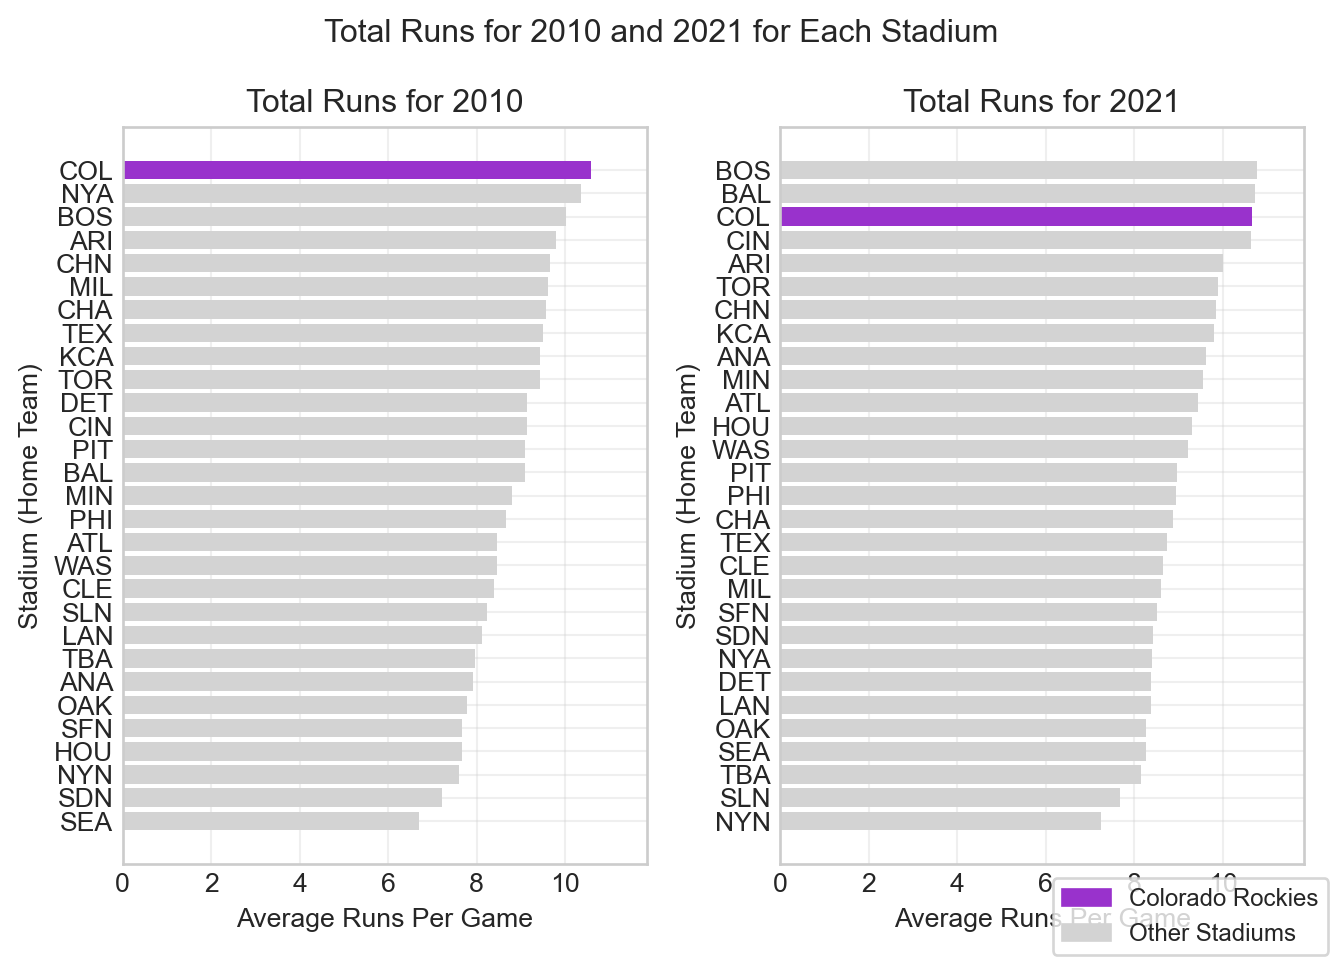
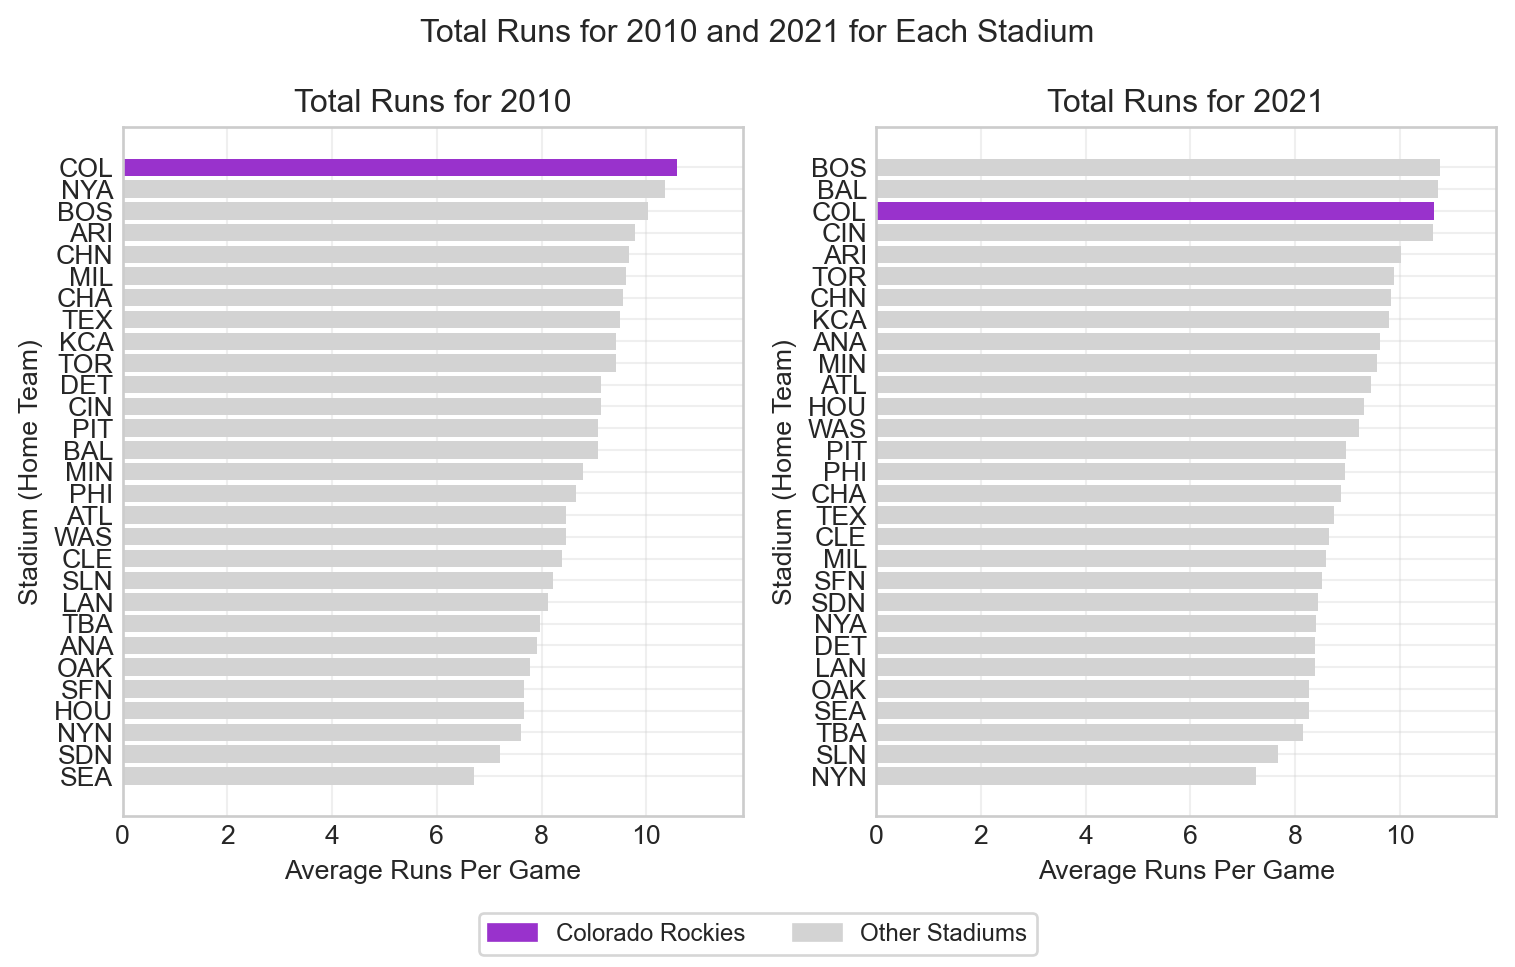
adjust legend position

diff --git a/index.html b/index.html
@@ -288,7 +288,7 @@ First few rows of 2010 data:
 </div>
 <div class="callout-body-container callout-body">
 <p><strong>Question 1: Data Aggregation Strategy</strong> - How many games are in the dataset? Why do we aggregate individual games into stadium averages before we start the visualization process?</p>
-<div id="21bc28ea" class="cell" data-message="false" data-execution_count="3">
+<div id="8d675c0f" class="cell" data-message="false" data-execution_count="3">
 <div class="code-copy-outer-scaffold"><div class="sourceCode cell-code" id="cb5"><pre class="sourceCode python code-with-copy"><code class="sourceCode python"><span id="cb5-1"><a href="#cb5-1" aria-hidden="true" tabindex="-1"></a><span class="bu">print</span>(<span class="st">"2010 data shape:"</span>, df2010.shape)</span>
 <span id="cb5-2"><a href="#cb5-2" aria-hidden="true" tabindex="-1"></a><span class="bu">print</span>(<span class="st">"2021 data shape:"</span>, df2021.shape)</span>
 <span id="cb5-3"><a href="#cb5-3" aria-hidden="true" tabindex="-1"></a><span class="bu">print</span>(<span class="st">"</span><span class="ch">\n</span><span class="st">2010 data columns:"</span>, df2010.columns.tolist())</span>
@@ -310,7 +310,7 @@ First few rows of 2010 data:
 </div>
 </div>
 <p>There are total of 4859 games from 2010 and 2021 seasons. 2430 games in 2010 and 2429 games in 2021.</p>
-<div id="4105aca1" class="cell" data-message="false" data-execution_count="4">
+<div id="0e6ad3db" class="cell" data-message="false" data-execution_count="4">
 <div class="code-copy-outer-scaffold"><div class="sourceCode cell-code" id="cb7"><pre class="sourceCode python code-with-copy"><code class="sourceCode python"><span id="cb7-1"><a href="#cb7-1" aria-hidden="true" tabindex="-1"></a>home_run_2010 <span class="op">=</span> df2010.groupby(<span class="st">'home'</span>).size().sort_values(ascending<span class="op">=</span><span class="va">False</span>)</span>
 <span id="cb7-2"><a href="#cb7-2" aria-hidden="true" tabindex="-1"></a><span class="bu">print</span>(home_run_2010.head(<span class="dv">3</span>))</span>
 <span id="cb7-3"><a href="#cb7-3" aria-hidden="true" tabindex="-1"></a></span>
@@ -495,7 +495,7 @@ Colorado is 20.8% above league average</code></pre>
 <li>Is the annotation on the visualization helpful? Can you fix its placement? The annotation is helpful and is placed in a good location. It is helpful because it allows us to see that Colorado is the most run-friendly stadium in Major League Baseball. It can be fixed by placing it in a better location.</li>
 </ul>
 <p>*** Fix the annotation placement ***</p>
-<div id="192ab8d6" class="cell" data-message="false" data-execution_count="7">
+<div id="f3ea6a02" class="cell" data-message="false" data-execution_count="7">
 <div class="code-copy-outer-scaffold"><div class="sourceCode cell-code" id="cb12"><pre class="sourceCode python code-with-copy"><code class="sourceCode python"><span id="cb12-1"><a href="#cb12-1" aria-hidden="true" tabindex="-1"></a><span class="co"># Fix the annotation placement</span></span>
 <span id="cb12-2"><a href="#cb12-2" aria-hidden="true" tabindex="-1"></a>ax.annotate(<span class="ss">f"COL: </span><span class="sc">{</span>colorado_runs<span class="sc">:.2f}</span><span class="ss"> runs/game"</span>, </span>
 <span id="cb12-3"><a href="#cb12-3" aria-hidden="true" tabindex="-1"></a>            xy<span class="op">=</span>(colorado_runs, colorado_index), </span>
@@ -571,8 +571,8 @@ Colorado is 20.8% above league average</code></pre>
 <span id="cb13-8"><a href="#cb13-8" aria-hidden="true" tabindex="-1"></a>    on<span class="op">=</span><span class="st">'home'</span>, how<span class="op">=</span><span class="st">'inner'</span></span>
 <span id="cb13-9"><a href="#cb13-9" aria-hidden="true" tabindex="-1"></a>)</span>
 <span id="cb13-10"><a href="#cb13-10" aria-hidden="true" tabindex="-1"></a></span>
-<span id="cb13-11"><a href="#cb13-11" aria-hidden="true" tabindex="-1"></a><span class="co"># Create two-facet visualization comparing 2010 and 2021</span></span>
-<span id="cb13-12"><a href="#cb13-12" aria-hidden="true" tabindex="-1"></a>fig, (ax1, ax2) <span class="op">=</span> plt.subplots(<span class="dv">1</span>, <span class="dv">2</span>, figsize<span class="op">=</span>(<span class="dv">7</span>, <span class="dv">5</span>))</span>
+<span id="cb13-11"><a href="#cb13-11" aria-hidden="true" tabindex="-1"></a><span class="co"># Create two-facet visualization comparing 2010 and 2021 for each stadium</span></span>
+<span id="cb13-12"><a href="#cb13-12" aria-hidden="true" tabindex="-1"></a>fig, (ax1, ax2) <span class="op">=</span> plt.subplots(<span class="dv">1</span>, <span class="dv">2</span>, figsize<span class="op">=</span>(<span class="dv">8</span>, <span class="dv">5</span>))</span>
 <span id="cb13-13"><a href="#cb13-13" aria-hidden="true" tabindex="-1"></a></span>
 <span id="cb13-14"><a href="#cb13-14" aria-hidden="true" tabindex="-1"></a><span class="co"># Sort each dataset by its own runs (ascending for horizontal bar charts)</span></span>
 <span id="cb13-15"><a href="#cb13-15" aria-hidden="true" tabindex="-1"></a>data_2010_sorted <span class="op">=</span> comparison_data.sort_values(<span class="st">'runs_2010'</span>, ascending<span class="op">=</span><span class="va">True</span>)</span>
@@ -605,37 +605,40 @@ Colorado is 20.8% above league average</code></pre>
 <span id="cb13-42"><a href="#cb13-42" aria-hidden="true" tabindex="-1"></a>colorado_runs_2010 <span class="op">=</span> data_2010_sorted[data_2010_sorted.home <span class="op">==</span> <span class="st">"COL"</span>][<span class="st">"runs_2010"</span>].iloc[<span class="dv">0</span>]</span>
 <span id="cb13-43"><a href="#cb13-43" aria-hidden="true" tabindex="-1"></a>colorado_runs_2021 <span class="op">=</span> data_2021_sorted[data_2021_sorted.home <span class="op">==</span> <span class="st">"COL"</span>][<span class="st">"runs_2021"</span>].iloc[<span class="dv">0</span>]</span>
 <span id="cb13-44"><a href="#cb13-44" aria-hidden="true" tabindex="-1"></a></span>
-<span id="cb13-45"><a href="#cb13-45" aria-hidden="true" tabindex="-1"></a><span class="co"># Add legend</span></span>
-<span id="cb13-46"><a href="#cb13-46" aria-hidden="true" tabindex="-1"></a>colorado_bar <span class="op">=</span> plt.Rectangle((<span class="dv">0</span>,<span class="dv">0</span>),<span class="dv">1</span>,<span class="dv">1</span>, color<span class="op">=</span><span class="st">"darkorchid"</span>, label<span class="op">=</span><span class="st">"Colorado Rockies"</span>)</span>
-<span id="cb13-47"><a href="#cb13-47" aria-hidden="true" tabindex="-1"></a>other_bar <span class="op">=</span> plt.Rectangle((<span class="dv">0</span>,<span class="dv">0</span>),<span class="dv">1</span>,<span class="dv">1</span>, color<span class="op">=</span><span class="st">"lightgrey"</span>, label<span class="op">=</span><span class="st">"Other Stadiums"</span>)</span>
-<span id="cb13-48"><a href="#cb13-48" aria-hidden="true" tabindex="-1"></a>fig.legend(handles<span class="op">=</span>[colorado_bar, other_bar], loc<span class="op">=</span><span class="st">'lower right'</span>, frameon<span class="op">=</span><span class="va">True</span>, fontsize<span class="op">=</span><span class="dv">9</span>)</span>
-<span id="cb13-49"><a href="#cb13-49" aria-hidden="true" tabindex="-1"></a></span>
-<span id="cb13-50"><a href="#cb13-50" aria-hidden="true" tabindex="-1"></a><span class="co"># Set consistent x-axis limits for fair comparison</span></span>
-<span id="cb13-51"><a href="#cb13-51" aria-hidden="true" tabindex="-1"></a>max_runs <span class="op">=</span> <span class="bu">max</span>(data_2010_sorted.runs_2010.<span class="bu">max</span>(), data_2021_sorted.runs_2021.<span class="bu">max</span>())</span>
-<span id="cb13-52"><a href="#cb13-52" aria-hidden="true" tabindex="-1"></a>ax1.set_xlim(<span class="dv">0</span>, max_runs <span class="op">*</span> <span class="fl">1.1</span>)</span>
-<span id="cb13-53"><a href="#cb13-53" aria-hidden="true" tabindex="-1"></a>ax2.set_xlim(<span class="dv">0</span>, max_runs <span class="op">*</span> <span class="fl">1.1</span>)</span>
+<span id="cb13-45"><a href="#cb13-45" aria-hidden="true" tabindex="-1"></a></span>
+<span id="cb13-46"><a href="#cb13-46" aria-hidden="true" tabindex="-1"></a><span class="co"># Set consistent x-axis limits for fair comparison</span></span>
+<span id="cb13-47"><a href="#cb13-47" aria-hidden="true" tabindex="-1"></a>max_runs <span class="op">=</span> <span class="bu">max</span>(data_2010_sorted.runs_2010.<span class="bu">max</span>(), data_2021_sorted.runs_2021.<span class="bu">max</span>())</span>
+<span id="cb13-48"><a href="#cb13-48" aria-hidden="true" tabindex="-1"></a>ax1.set_xlim(<span class="dv">0</span>, max_runs <span class="op">*</span> <span class="fl">1.1</span>)</span>
+<span id="cb13-49"><a href="#cb13-49" aria-hidden="true" tabindex="-1"></a>ax2.set_xlim(<span class="dv">0</span>, max_runs <span class="op">*</span> <span class="fl">1.1</span>)</span>
+<span id="cb13-50"><a href="#cb13-50" aria-hidden="true" tabindex="-1"></a></span>
+<span id="cb13-51"><a href="#cb13-51" aria-hidden="true" tabindex="-1"></a><span class="co"># Add legend</span></span>
+<span id="cb13-52"><a href="#cb13-52" aria-hidden="true" tabindex="-1"></a>colorado_bar <span class="op">=</span> plt.Rectangle((<span class="dv">0</span>,<span class="dv">0</span>),<span class="dv">1</span>,<span class="dv">1</span>, color<span class="op">=</span><span class="st">"darkorchid"</span>, label<span class="op">=</span><span class="st">"Colorado Rockies"</span>)</span>
+<span id="cb13-53"><a href="#cb13-53" aria-hidden="true" tabindex="-1"></a>other_bar <span class="op">=</span> plt.Rectangle((<span class="dv">0</span>,<span class="dv">0</span>),<span class="dv">1</span>,<span class="dv">1</span>, color<span class="op">=</span><span class="st">"lightgrey"</span>, label<span class="op">=</span><span class="st">"Other Stadiums"</span>)</span>
 <span id="cb13-54"><a href="#cb13-54" aria-hidden="true" tabindex="-1"></a></span>
-<span id="cb13-55"><a href="#cb13-55" aria-hidden="true" tabindex="-1"></a><span class="co"># Add title</span></span>
-<span id="cb13-56"><a href="#cb13-56" aria-hidden="true" tabindex="-1"></a>plt.suptitle(<span class="st">"Total Runs for 2010 and 2021 for Each Stadium"</span>)</span>
+<span id="cb13-55"><a href="#cb13-55" aria-hidden="true" tabindex="-1"></a><span class="co"># update legend position to display in the bottom center of the figure after the plots are created</span></span>
+<span id="cb13-56"><a href="#cb13-56" aria-hidden="true" tabindex="-1"></a>fig.legend(handles<span class="op">=</span>[colorado_bar, other_bar], loc<span class="op">=</span><span class="st">'lower center'</span>, frameon<span class="op">=</span><span class="va">True</span>, fontsize<span class="op">=</span><span class="dv">9</span>, ncol<span class="op">=</span><span class="dv">2</span>)</span>
 <span id="cb13-57"><a href="#cb13-57" aria-hidden="true" tabindex="-1"></a></span>
-<span id="cb13-58"><a href="#cb13-58" aria-hidden="true" tabindex="-1"></a><span class="co"># Show the visualization</span></span>
-<span id="cb13-59"><a href="#cb13-59" aria-hidden="true" tabindex="-1"></a>plt.tight_layout()</span>
-<span id="cb13-60"><a href="#cb13-60" aria-hidden="true" tabindex="-1"></a>plt.subplots_adjust(bottom<span class="op">=</span><span class="fl">0.1</span>)  <span class="co"># Make room for legend</span></span>
-<span id="cb13-61"><a href="#cb13-61" aria-hidden="true" tabindex="-1"></a>plt.show()</span>
-<span id="cb13-62"><a href="#cb13-62" aria-hidden="true" tabindex="-1"></a></span>
-<span id="cb13-63"><a href="#cb13-63" aria-hidden="true" tabindex="-1"></a><span class="co"># Print comparison statistics</span></span>
-<span id="cb13-64"><a href="#cb13-64" aria-hidden="true" tabindex="-1"></a><span class="bu">print</span>(<span class="ss">f"</span><span class="ch">\n</span><span class="ss">Colorado Performance Comparison:"</span>)</span>
-<span id="cb13-65"><a href="#cb13-65" aria-hidden="true" tabindex="-1"></a><span class="bu">print</span>(<span class="ss">f"2010: </span><span class="sc">{</span>colorado_runs_2010<span class="sc">:.2f}</span><span class="ss"> runs/game"</span>)</span>
-<span id="cb13-66"><a href="#cb13-66" aria-hidden="true" tabindex="-1"></a><span class="bu">print</span>(<span class="ss">f"2021: </span><span class="sc">{</span>colorado_runs_2021<span class="sc">:.2f}</span><span class="ss"> runs/game"</span>)</span>
-<span id="cb13-67"><a href="#cb13-67" aria-hidden="true" tabindex="-1"></a><span class="bu">print</span>(<span class="ss">f"Change: </span><span class="sc">{</span>colorado_runs_2021 <span class="op">-</span> colorado_runs_2010<span class="sc">:+.2f}</span><span class="ss"> runs/game"</span>)</span>
-<span id="cb13-68"><a href="#cb13-68" aria-hidden="true" tabindex="-1"></a><span class="bu">print</span>(<span class="ss">f"League Average 2010: </span><span class="sc">{</span>data_2010_sorted<span class="sc">.</span>runs_2010<span class="sc">.</span>mean()<span class="sc">:.2f}</span><span class="ss">"</span>)</span>
-<span id="cb13-69"><a href="#cb13-69" aria-hidden="true" tabindex="-1"></a><span class="bu">print</span>(<span class="ss">f"League Average 2021: </span><span class="sc">{</span>data_2021_sorted<span class="sc">.</span>runs_2021<span class="sc">.</span>mean()<span class="sc">:.2f}</span><span class="ss">"</span>)</span>
-<span id="cb13-70"><a href="#cb13-70" aria-hidden="true" tabindex="-1"></a><span class="bu">print</span>(<span class="ss">f"Colorado is </span><span class="sc">{</span>((colorado_runs_2021 <span class="op">/</span> data_2021_sorted.runs_2021.mean()) <span class="op">-</span> <span class="dv">1</span>) <span class="op">*</span> <span class="dv">100</span><span class="sc">:.1f}</span><span class="ss">% above league average in 2021"</span>)</span>
-<span id="cb13-71"><a href="#cb13-71" aria-hidden="true" tabindex="-1"></a><span class="bu">print</span>(<span class="ss">f"Colorado is </span><span class="sc">{</span>((colorado_runs_2010 <span class="op">/</span> data_2010_sorted.runs_2010.mean()) <span class="op">-</span> <span class="dv">1</span>) <span class="op">*</span> <span class="dv">100</span><span class="sc">:.1f}</span><span class="ss">% above league average in 2010"</span>)</span></code></pre></div><button title="Copy to Clipboard" class="code-copy-button"><i class="bi"></i></button></div>
+<span id="cb13-58"><a href="#cb13-58" aria-hidden="true" tabindex="-1"></a><span class="co"># Add title</span></span>
+<span id="cb13-59"><a href="#cb13-59" aria-hidden="true" tabindex="-1"></a>plt.suptitle(<span class="st">"Total Runs for 2010 and 2021 for Each Stadium"</span>)</span>
+<span id="cb13-60"><a href="#cb13-60" aria-hidden="true" tabindex="-1"></a></span>
+<span id="cb13-61"><a href="#cb13-61" aria-hidden="true" tabindex="-1"></a><span class="co"># Show the visualization</span></span>
+<span id="cb13-62"><a href="#cb13-62" aria-hidden="true" tabindex="-1"></a>plt.tight_layout()</span>
+<span id="cb13-63"><a href="#cb13-63" aria-hidden="true" tabindex="-1"></a>plt.subplots_adjust(bottom<span class="op">=</span><span class="fl">0.15</span>)  <span class="co"># Make room for legend at bottom</span></span>
+<span id="cb13-64"><a href="#cb13-64" aria-hidden="true" tabindex="-1"></a>plt.show()</span>
+<span id="cb13-65"><a href="#cb13-65" aria-hidden="true" tabindex="-1"></a></span>
+<span id="cb13-66"><a href="#cb13-66" aria-hidden="true" tabindex="-1"></a><span class="co"># Print comparison statistics</span></span>
+<span id="cb13-67"><a href="#cb13-67" aria-hidden="true" tabindex="-1"></a><span class="bu">print</span>(<span class="ss">f"</span><span class="ch">\n</span><span class="ss">Colorado Performance Comparison:"</span>)</span>
+<span id="cb13-68"><a href="#cb13-68" aria-hidden="true" tabindex="-1"></a><span class="bu">print</span>(<span class="ss">f"2010: </span><span class="sc">{</span>colorado_runs_2010<span class="sc">:.2f}</span><span class="ss"> runs/game"</span>)</span>
+<span id="cb13-69"><a href="#cb13-69" aria-hidden="true" tabindex="-1"></a><span class="bu">print</span>(<span class="ss">f"2021: </span><span class="sc">{</span>colorado_runs_2021<span class="sc">:.2f}</span><span class="ss"> runs/game"</span>)</span>
+<span id="cb13-70"><a href="#cb13-70" aria-hidden="true" tabindex="-1"></a><span class="bu">print</span>(<span class="ss">f"Change: </span><span class="sc">{</span>colorado_runs_2021 <span class="op">-</span> colorado_runs_2010<span class="sc">:+.2f}</span><span class="ss"> runs/game"</span>)</span>
+<span id="cb13-71"><a href="#cb13-71" aria-hidden="true" tabindex="-1"></a><span class="bu">print</span>(<span class="ss">f"League Average 2010: </span><span class="sc">{</span>data_2010_sorted<span class="sc">.</span>runs_2010<span class="sc">.</span>mean()<span class="sc">:.2f}</span><span class="ss">"</span>)</span>
+<span id="cb13-72"><a href="#cb13-72" aria-hidden="true" tabindex="-1"></a><span class="bu">print</span>(<span class="ss">f"League Average 2021: </span><span class="sc">{</span>data_2021_sorted<span class="sc">.</span>runs_2021<span class="sc">.</span>mean()<span class="sc">:.2f}</span><span class="ss">"</span>)</span>
+<span id="cb13-73"><a href="#cb13-73" aria-hidden="true" tabindex="-1"></a><span class="bu">print</span>(<span class="ss">f"Colorado is </span><span class="sc">{</span>((colorado_runs_2021 <span class="op">/</span> data_2021_sorted.runs_2021.mean()) <span class="op">-</span> <span class="dv">1</span>) <span class="op">*</span> <span class="dv">100</span><span class="sc">:.1f}</span><span class="ss">% above league average in 2021"</span>)</span>
+<span id="cb13-74"><a href="#cb13-74" aria-hidden="true" tabindex="-1"></a><span class="bu">print</span>(<span class="ss">f"Colorado is </span><span class="sc">{</span>((colorado_runs_2010 <span class="op">/</span> data_2010_sorted.runs_2010.mean()) <span class="op">-</span> <span class="dv">1</span>) <span class="op">*</span> <span class="dv">100</span><span class="sc">:.1f}</span><span class="ss">% above league average in 2010"</span>)</span></code></pre></div><button title="Copy to Clipboard" class="code-copy-button"><i class="bi"></i></button></div>
 <div class="cell-output cell-output-display">
 <div>
 <figure class="figure">
-<p><img src="index_files/figure-html/advanced-oo-techniques-output-1.png" id="advanced-oo-techniques" width="670" height="484" class="figure-img"></p>
+<p><img src="index_files/figure-html/advanced-oo-techniques-output-1.png" id="advanced-oo-techniques" width="758" height="484" class="figure-img"></p>
 </figure>
 </div>
 </div>
@@ -661,8 +664,17 @@ Colorado is 20.9% above league average in 2010</code></pre>
 </div>
 </div>
 <div class="callout-body-container callout-body">
-<p><strong>Question 1: Using Subplot Layout</strong> - Create a two-facet visualization that shows the total runs for 2010 and 2021 for each stadium in a single figure. Highlight Colorado in the visualization.</p>
-<p><strong>Question 2: Explanation of the Visualization</strong> - Ask AI To Add A Paragraph Here To Explain The Visualization - Does AI come to the right conclusion? If not, why not?</p>
+<p><strong>Question 1: Using Subplot Layout</strong> - Create a two-facet visualization that shows the total runs for 2010 and 2021 for each stadium in a single figure. Highlight Colorado in the visualization. Answer: Created the visualization and it is shown above.</p>
+<p><strong>Question 2: Explanation of the Visualization</strong> - Ask AI To Add A Paragraph Here To Explain The Visualization</p>
+<ul>
+<li><p><strong>Summary of the Visualization:</strong> This side-by-side comparison reveals Colorado’s dominant run-friendliness across 2010 and 2021. Coors Field consistently leads all MLB stadiums in average runs per game, confirming its altitude advantage as the most hitter-friendly ballpark in baseball. The visualization ranks every stadium by total runs, showing not just Colorado’s position, but the entire league’s spectrum—from the highest-scoring environments (coinciding with Colorado) down to the most pitcher-friendly parks. By tracking both years, we can identify which teams’ home parks rank closest to Colorado (high-run environments) versus those furthest away (low-run, pitcher-friendly parks). The gap between Colorado and league average reveals the magnitude of Coors Field’s scoring advantage, while the overall distribution shows how teams are distributed across the scoring spectrum. This comparison across 2010 vs 2021 helps reveal era effects, rule changes, and competitive balance shifts that impact league-wide run rates over time.</p>
+<p><strong>Notable Stadium Comparisons:</strong></p>
+<ul>
+<li><strong>Camden Yards (Orioles)</strong>: Known as one of baseball’s most influential modern ballparks, Camden Yards typically ranks near the middle of the run-friendliness spectrum. Its dimensions and design create a relatively neutral environment for scoring compared to Colorado’s extreme altitude advantage. This makes it an interesting benchmark when evaluating whether Colorado’s scoring environment is truly exceptional versus simply above-average.</li>
+<li><strong>Fenway Park (Red Sox)</strong>: One of baseball’s most iconic venues, Fenway’s unusual dimensions and Green Monster create a unique scoring profile. Located near the bottom of the run-friendliness rankings (being a pitcher-friendly park), Fenway provides a sharp contrast to Colorado—showing how ballpark design can significantly suppress scoring despite being in a hitter-friendly era. This comparison between Fenway (low-run) and Colorado (high-run) illustrates the dramatic range of scoring environments across MLB stadiums.</li>
+</ul></li>
+<li><p>Does AI come to the right conclusion? If not, why not? Initially, the AI explained about plot and more of technical plot explantion than games and stadium aspects; After giving more context and instructions, the AI came to the better conclusion. AI initially was not coming to the right conclusion because it was not given enough context and instructions.</p></li>
+</ul>
 </div>
 </div>
 </section>
@@ -756,7 +768,7 @@ Colorado is 20.9% above league average in 2010</code></pre>
 <li><label><input type="checkbox">Document rendered to HTML successfully</label></li>
 <li><label><input type="checkbox">HTML files uploaded to your repository</label></li>
 <li><label><input type="checkbox">GitHub Pages enabled and working</label></li>
-<li><label><input type="checkbox">Site accessible at <code>https://[your-username].github.io/dataVizChallenge/</code></label></li>
+<li><label><input type="checkbox">Site accessible at <code>https://jp-balakrishnan.github.io/dataVizChallenge/</code></label></li>
 </ul>
 <p><strong>85% Grade Requirements:</strong></p>
 <ul class="task-list">
